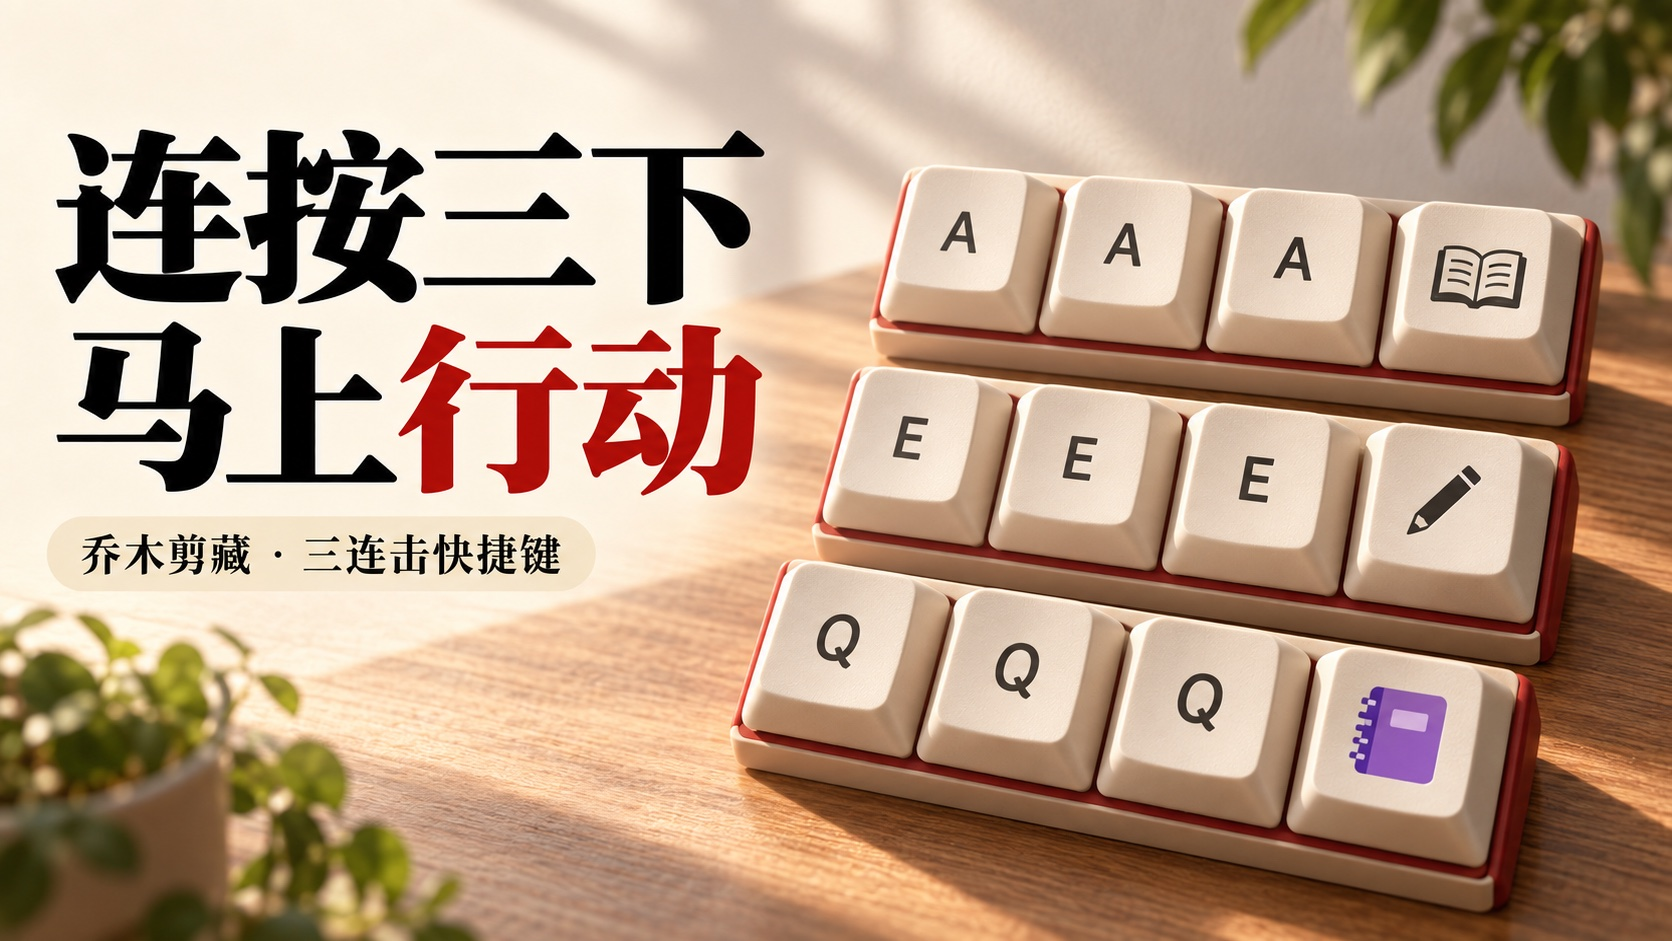
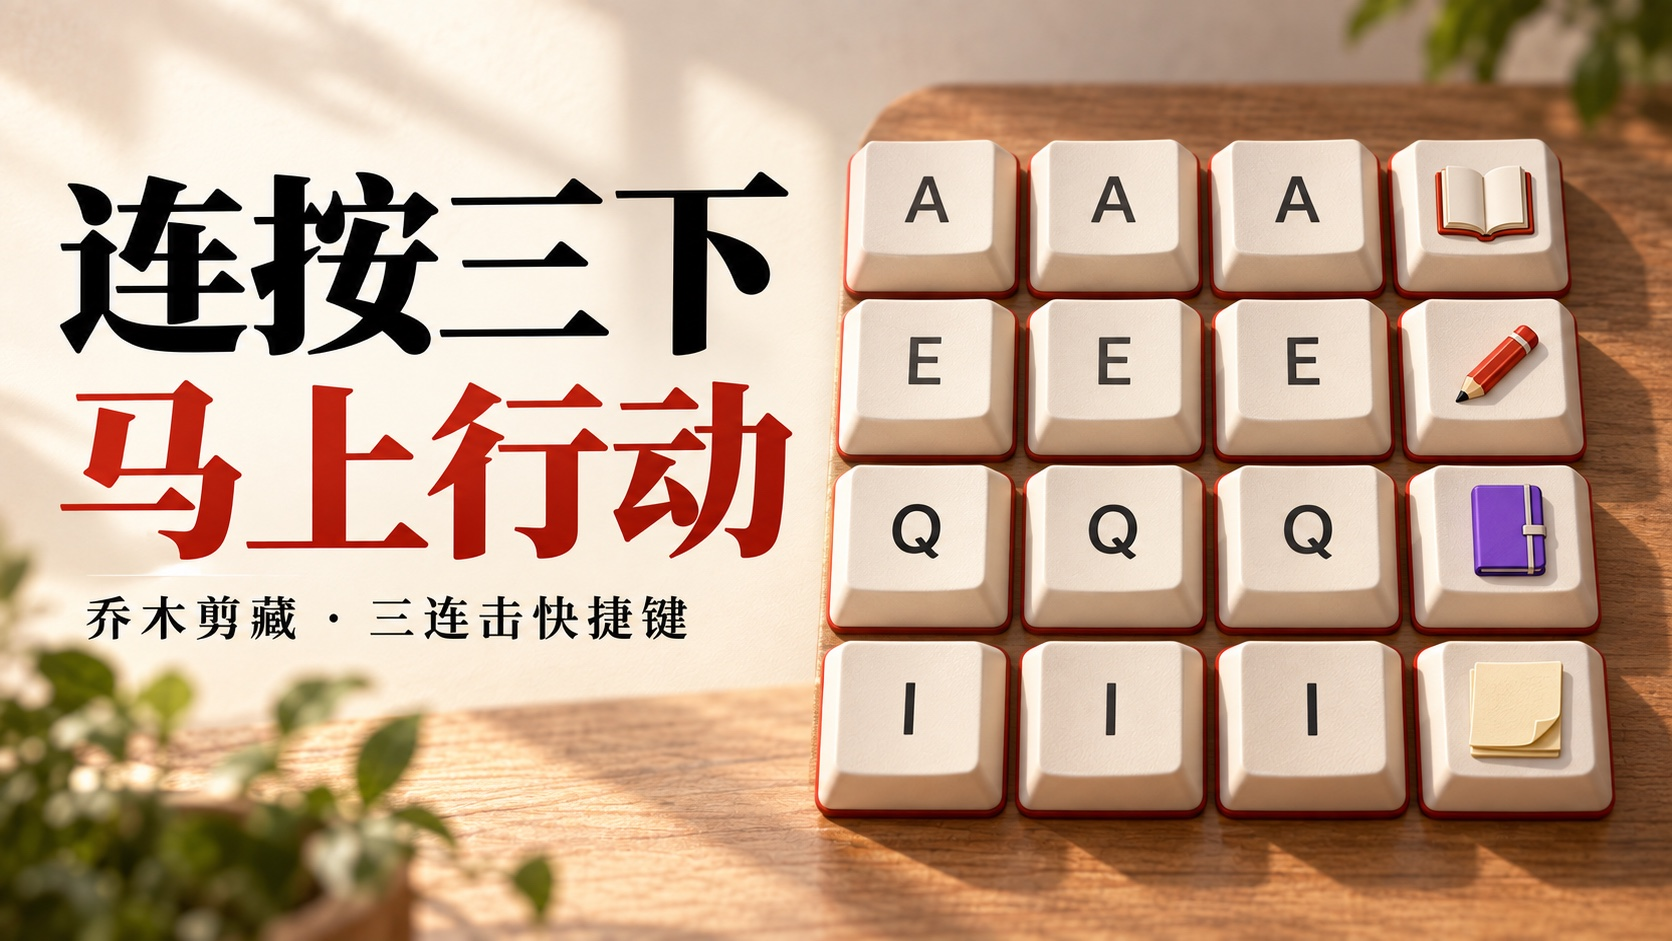
Docs and copy: mention the iii quick-note card in the triple-press shortcut description and illustration

diff --git a/README.md b/README.md
@@ -220,7 +220,7 @@ B 站使用官方嵌入播放器：点击时间戳会按该秒重新加载，高
 
 ## 三连击快捷键
 
-![三连击快捷键：AAA 阅读、EEE 编辑、QQQ 剪藏](docs/assets/features/triple-key.jpg)
+![三连击快捷键：AAA 阅读、EEE 编辑、QQQ 剪藏、III 记笔记](docs/assets/features/triple-key.jpg)
 
 在非输入框内快速连按同一个键 3 次（相邻按键间隔不超过约 0.6 秒）：
 
@@ -311,7 +311,7 @@ The Chinese feature tour includes ten matching AI-generated concept illustration
 | Lose your own thoughts while watching | Press `N` to write in a small card, with source and video time; append to today's daily note using the helper |
 | Re-type the same AI instructions | Global custom instructions, editable article / selection quick prompts, font choice and 12–28 px chat size |
 | Need a better place to read and edit | Shared top bar, collapsible navigation, Chinese fonts, highlights, side-by-side properties and Markdown |
-| Too many steps to clip | Configurable triple-press shortcuts: `aaa` read / study, `eee` edit, `qqq` clip; site exclusions and typing guards |
+| Too many steps to clip | Configurable triple-press shortcuts: `aaa` read / study, `eee` edit, `qqq` clip, `iii` quick-note card on any page; site exclusions and typing guards |
 
 Video loads before captions; caption failure can be retried without rebuilding the player. YouTube supports playback-following highlights. Bilibili uses its official embed: timestamp seeking reloads the player and captions highlight the clicked row rather than following playback; captions may require login. Actual availability depends on the video, site and network.
 
